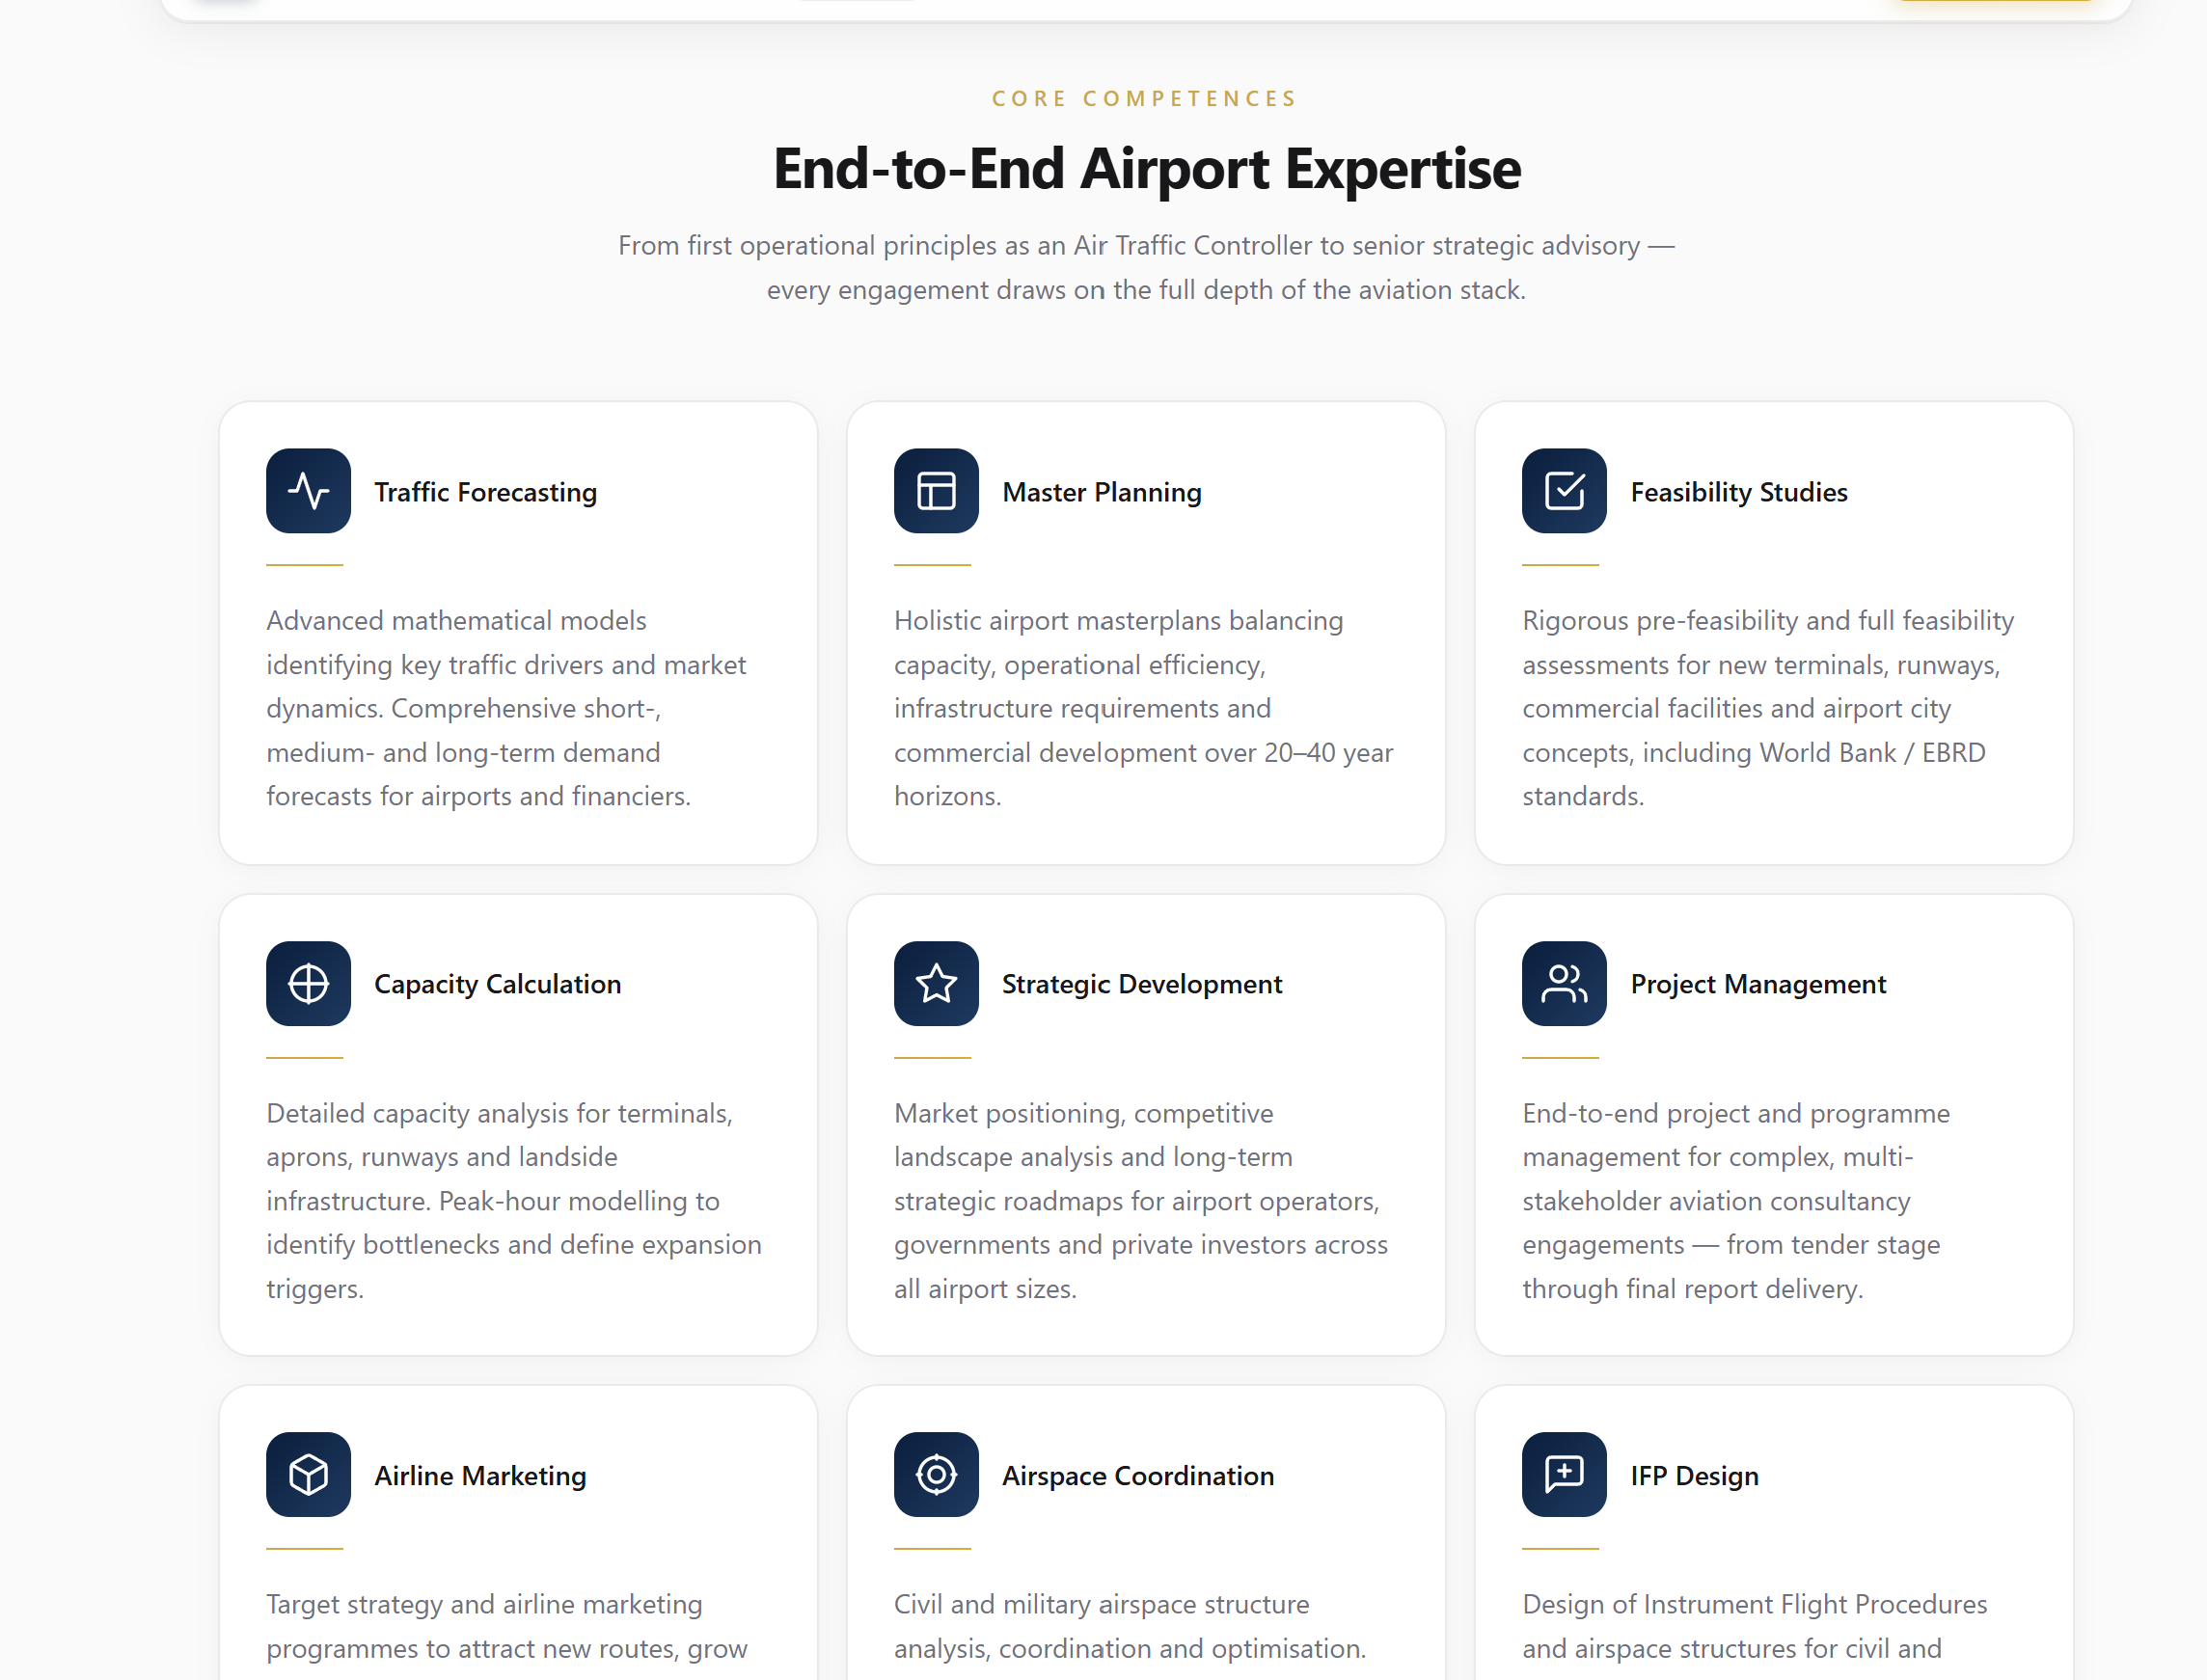
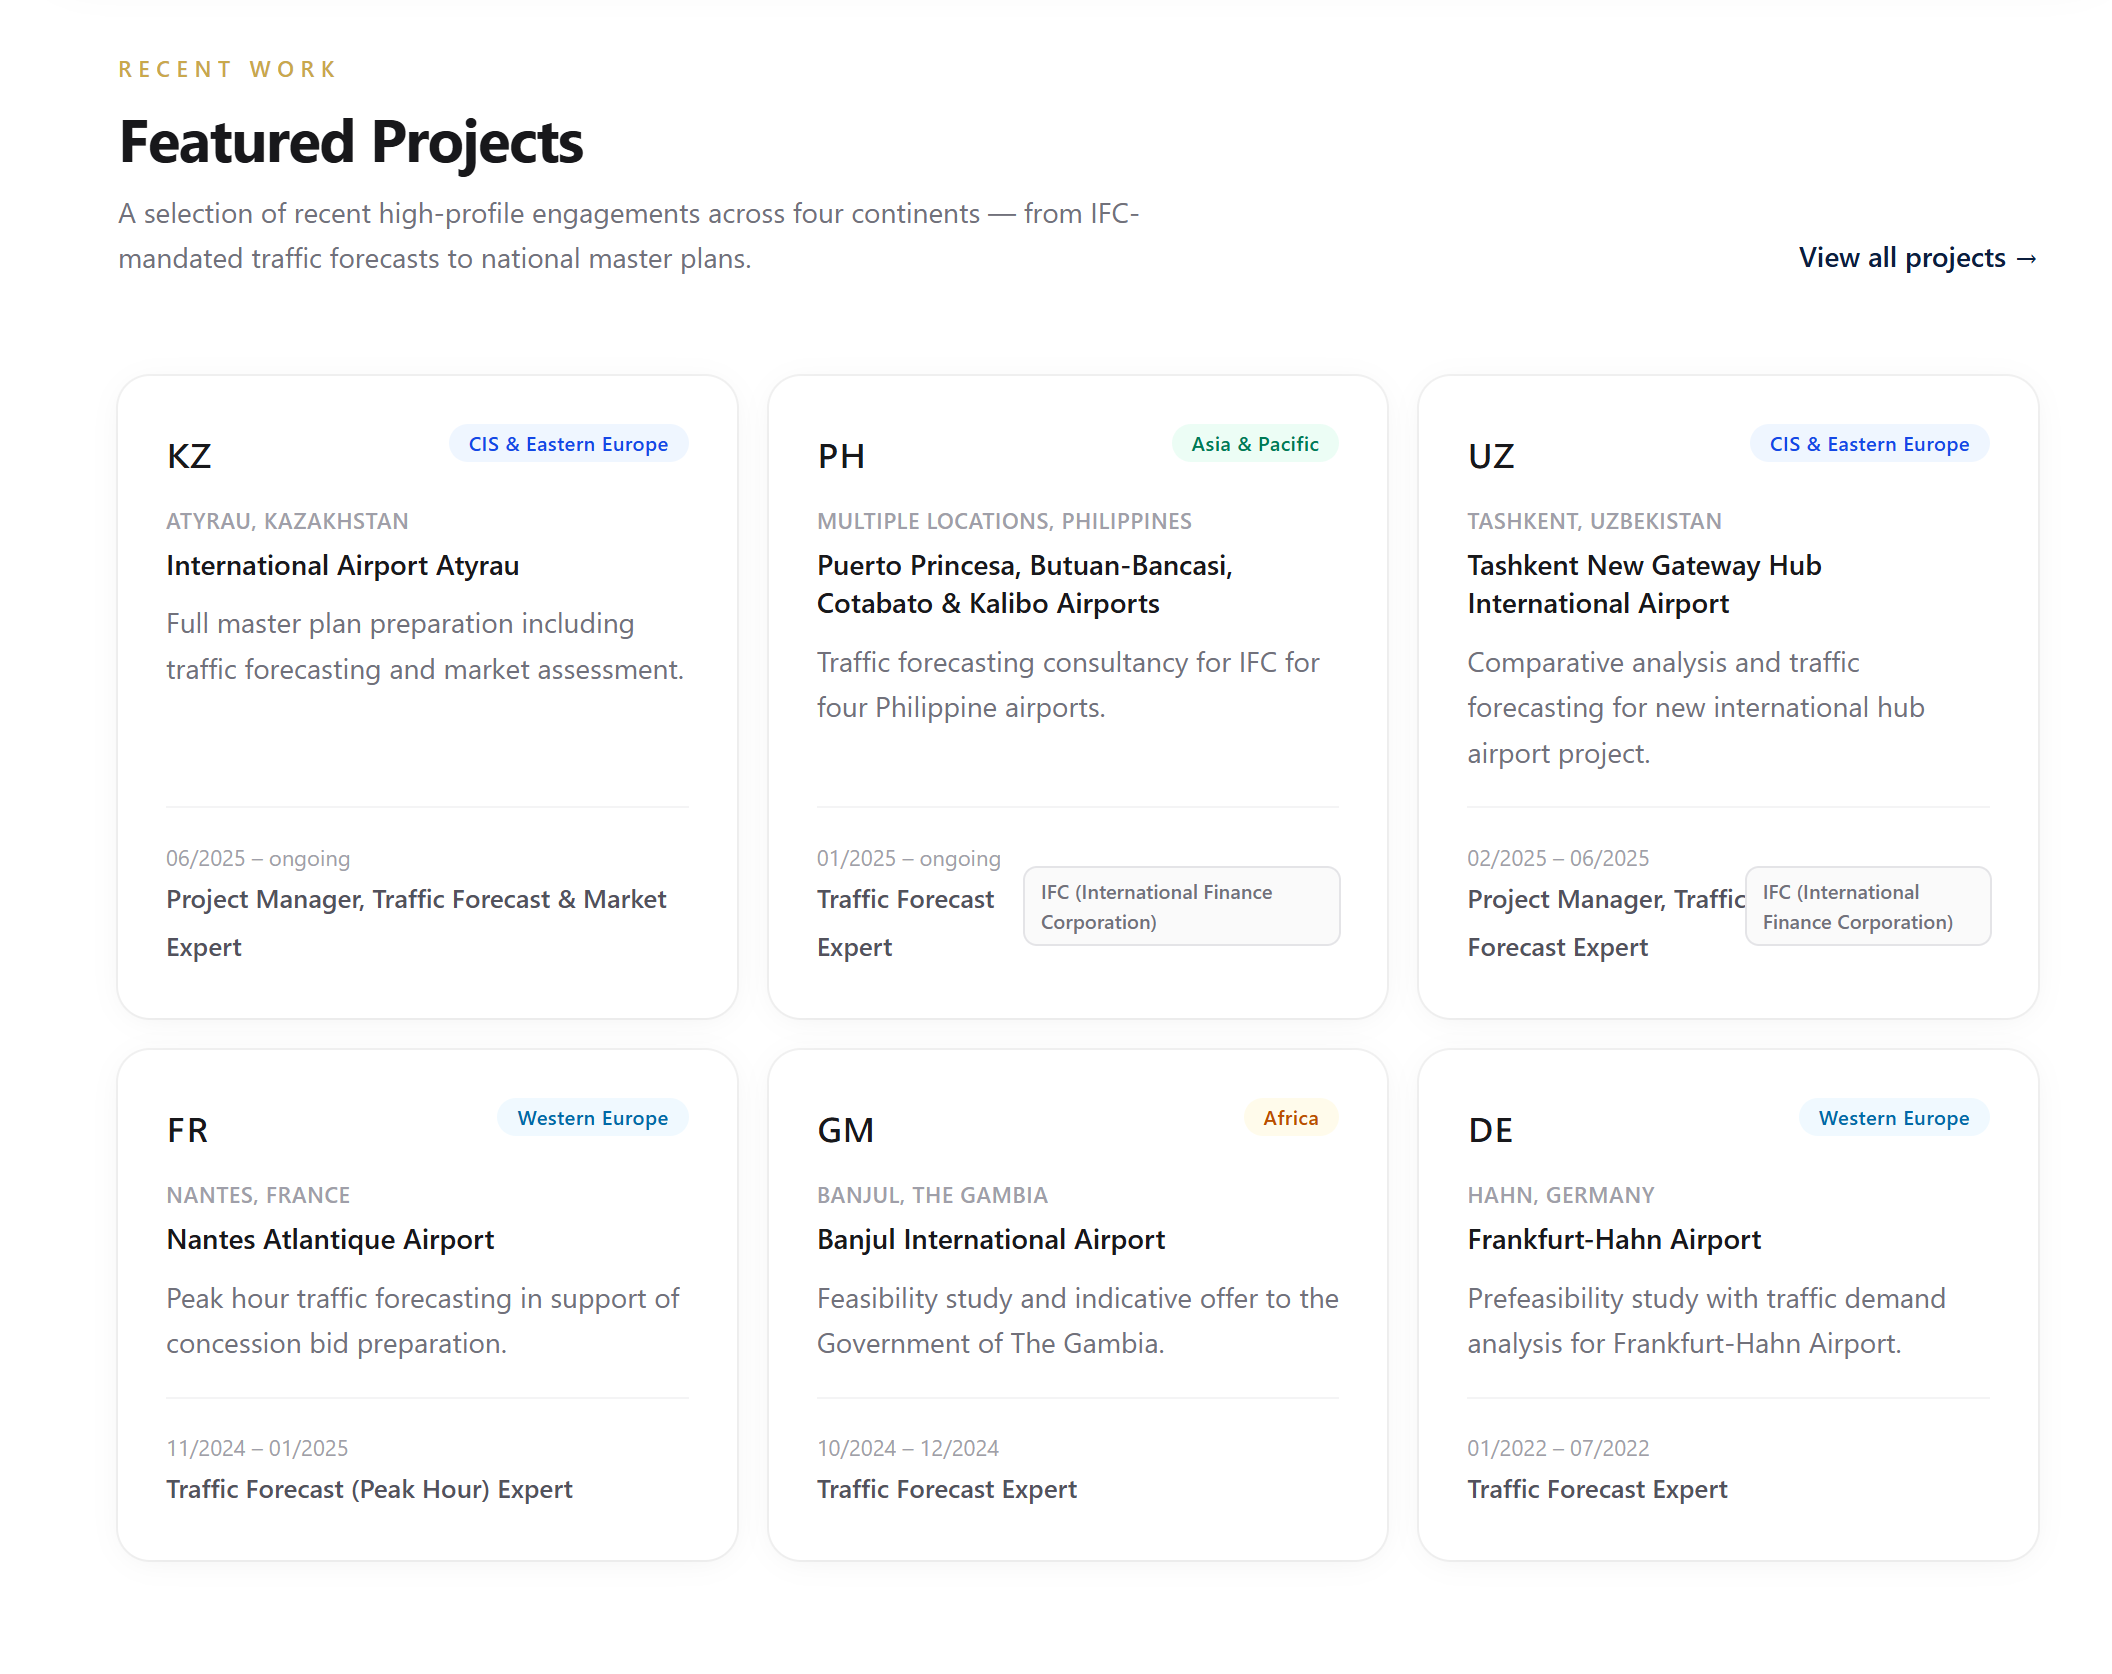
Refactor FeaturedProjects and ProjectCard components; removed unused region and country flag logic, updated layout for better responsiveness, and added a new footer CTA. Enhanced ProjectCard to conditionally display project scope or title based on props.

diff --git a/src/components/FeaturedProjects.tsx b/src/components/FeaturedProjects.tsx
@@ -1,110 +1,15 @@
 import Link from 'next/link'
 import { featuredProjects } from '@/lib/projects'
 import { ScrollReveal } from '@/components/ScrollReveal'
+import { ProjectCard } from '@/components/ProjectCard'
 
-// ─── Region colour map ────────────────────────────────────────────────────────
-
-const REGION_STYLES: Record<string, { bg: string; text: string }> = {
-  'CIS & Eastern Europe': { bg: 'bg-blue-50', text: 'text-blue-700' },
-  'Western Europe':       { bg: 'bg-sky-50',  text: 'text-sky-700' },
-  'Africa':               { bg: 'bg-amber-50', text: 'text-amber-700' },
-  'Asia & Pacific':       { bg: 'bg-emerald-50', text: 'text-emerald-700' },
-  'Middle East':          { bg: 'bg-orange-50', text: 'text-orange-700' },
-  'Americas':             { bg: 'bg-purple-50', text: 'text-purple-700' },
-}
-
-// ─── Country flags (emoji) ────────────────────────────────────────────────────
-
-const COUNTRY_FLAGS: Record<string, string> = {
-  Kazakhstan: '🇰🇿',
-  Philippines: '🇵🇭',
-  Uzbekistan: '🇺🇿',
-  France: '🇫🇷',
-  'The Gambia': '🇬🇲',
-  Germany: '🇩🇪',
-  Ukraine: '🇺🇦',
-  Russia: '🇷🇺',
-  Georgia: '🇬🇪',
-  Bulgaria: '🇧🇬',
-  Estonia: '🇪🇪',
-  Brazil: '🇧🇷',
-  Oman: '🇴🇲',
-  Nigeria: '🇳🇬',
-  'South Africa': '🇿🇦',
-  Montenegro: '🇲🇪',
-  Croatia: '🇭🇷',
-  Hungary: '🇭🇺',
-  Mexico: '🇲🇽',
-  Tajikistan: '🇹🇯',
-  Moldova: '🇲🇩',
-  Romania: '🇷🇴',
-}
-
-// ─── Single project card ──────────────────────────────────────────────────────
-
-function ProjectCard({
-  project,
-  index,
-}: {
-  project: (typeof featuredProjects)[number]
-  index: number
-}) {
-  const regionStyle = REGION_STYLES[project.region] ?? { bg: 'bg-zinc-50', text: 'text-zinc-600' }
-  const flag = COUNTRY_FLAGS[project.country] ?? '🌍'
-  const delay = `${index * 0.1}s`
-
-  return (
-    <ScrollReveal
-      delay={delay}
-      className="group flex flex-col gap-4 rounded-2xl bg-white p-6 shadow-[0_2px_16px_-4px_rgba(0,0,0,0.07)] ring-1 ring-zinc-900/5 transition-all duration-300 hover:-translate-y-1 hover:shadow-[0_12px_40px_-8px_rgba(11,30,61,0.14)]"
-    >
-      {/* Header row */}
-      <div className="flex items-start justify-between gap-3">
-        <span className="text-2xl leading-none" role="img" aria-label={project.country}>
-          {flag}
-        </span>
-        <span
-          className={`inline-flex items-center rounded-full px-2.5 py-0.5 text-[10px] font-medium tracking-wide ${regionStyle.bg} ${regionStyle.text}`}
-        >
-          {project.region}
-        </span>
-      </div>
-
-      {/* Project info */}
-      <div className="flex-1">
-        <p className="text-[11px] font-semibold tracking-wide text-zinc-400 uppercase">
-          {project.location}, {project.country}
-        </p>
-        <h3 className="mt-1 text-sm font-semibold leading-snug text-zinc-900">
-          {project.airport}
-        </h3>
-        <p className="mt-2 text-sm leading-relaxed text-zinc-500">
-          {project.scope}
-        </p>
-      </div>
-
-      {/* Footer */}
-      <div className="flex items-center justify-between border-t border-zinc-100 pt-4">
-        <div>
-          <p className="text-[11px] text-zinc-400">{project.period}</p>
-          <p className="text-xs font-medium text-zinc-600">{project.role}</p>
-        </div>
-        {project.client && (
-          <span className="rounded-md bg-zinc-50 px-2 py-1 text-[10px] font-medium text-zinc-500 ring-1 ring-zinc-200">
-            {project.client}
-          </span>
-        )}
-      </div>
-    </ScrollReveal>
-  )
-}
-
-// ─── Section ─────────────────────────────────────────────────────────────────
+// ─── Featured Projects section — homepage ─────────────────────────────────────
 
 export function FeaturedProjects() {
   return (
-    <section className="mx-auto max-w-5xl px-4 py-20 sm:px-8 sm:py-24">
-      {/* Heading */}
+    <section className="mx-auto max-w-7xl px-4 py-20 sm:px-8 sm:py-24">
+
+      {/* ── Heading ── */}
       <ScrollReveal className="mb-12 flex flex-col items-start gap-4 sm:flex-row sm:items-end sm:justify-between">
         <div>
           <p
@@ -130,12 +35,27 @@ export function FeaturedProjects() {
         </Link>
       </ScrollReveal>
 
-      {/* Grid */}
+      {/* ── Cards ── */}
       <div className="grid grid-cols-1 gap-4 sm:grid-cols-2 lg:grid-cols-3">
         {featuredProjects.map((project, i) => (
-          <ProjectCard key={project.id} project={project} index={i} />
+          <ScrollReveal key={project.id} delay={`${i * 0.09}s`}>
+            <ProjectCard project={project} showScope />
+          </ScrollReveal>
         ))}
       </div>
+
+      {/* ── Footer CTA ── */}
+      <ScrollReveal className="mt-10 text-center">
+        <Link
+          href="/projects"
+          className="inline-flex items-center gap-2 rounded-xl border border-zinc-200 bg-white px-6 py-3 text-sm font-semibold text-zinc-700 shadow-sm transition-all duration-200 hover:border-zinc-300 hover:shadow-md"
+        >
+          View all {featuredProjects.length > 0 ? '60+' : ''} projects
+          <svg viewBox="0 0 20 20" fill="currentColor" className="h-4 w-4 text-zinc-400">
+            <path fillRule="evenodd" d="M3 10a.75.75 0 0 1 .75-.75h10.638L10.23 5.29a.75.75 0 1 1 1.04-1.08l5.5 5.25a.75.75 0 0 1 0 1.08l-5.5 5.25a.75.75 0 1 1-1.04-1.08l4.158-3.96H3.75A.75.75 0 0 1 3 10Z" clipRule="evenodd"/>
+          </svg>
+        </Link>
+      </ScrollReveal>
     </section>
   )
 }

diff --git a/src/app/icon.tsx b/src/app/icon.tsx
@@ -1,0 +1,35 @@
+import { ImageResponse } from 'next/og'
+
+// ─── App icon — generated at build time via next/og ──────────────────────────
+// Renders the RAC initials badge in brand colours:
+//   Deep Navy background · "R" white · "A" gold · "C" white
+
+export const size        = { width: 32, height: 32 }
+export const contentType = 'image/png'
+
+export default function Icon() {
+  return new ImageResponse(
+    (
+      <div
+        style={{
+          width: '100%',
+          height: '100%',
+          display: 'flex',
+          alignItems: 'center',
+          justifyContent: 'center',
+          background: 'linear-gradient(135deg, #0B1E3D 0%, #1E3A5F 100%)',
+          borderRadius: '7px',
+          fontFamily: 'sans-serif',
+          fontSize: '13px',
+          fontWeight: 900,
+          letterSpacing: '-0.5px',
+        }}
+      >
+        <span style={{ color: '#ffffff' }}>R</span>
+        <span style={{ color: '#C9A84C' }}>A</span>
+        <span style={{ color: '#ffffff' }}>C</span>
+      </div>
+    ),
+    { ...size },
+  )
+}

diff --git a/src/app/apple-icon.tsx b/src/app/apple-icon.tsx
@@ -1,0 +1,31 @@
+import { ImageResponse } from 'next/og'
+
+export const size        = { width: 180, height: 180 }
+export const contentType = 'image/png'
+
+export default function AppleIcon() {
+  return new ImageResponse(
+    (
+      <div
+        style={{
+          width: '100%',
+          height: '100%',
+          display: 'flex',
+          alignItems: 'center',
+          justifyContent: 'center',
+          background: 'linear-gradient(135deg, #0B1E3D 0%, #1E3A5F 100%)',
+          borderRadius: '38px',
+          fontFamily: 'sans-serif',
+          fontSize: '68px',
+          fontWeight: 900,
+          letterSpacing: '-2px',
+        }}
+      >
+        <span style={{ color: '#ffffff' }}>R</span>
+        <span style={{ color: '#C9A84C' }}>A</span>
+        <span style={{ color: '#ffffff' }}>C</span>
+      </div>
+    ),
+    { ...size },
+  )
+}

diff --git a/src/components/ProjectCard.tsx b/src/components/ProjectCard.tsx
@@ -27,7 +27,13 @@ function shortRole(role: string) {
 
 // ─── Card ─────────────────────────────────────────────────────────────────────
 
-export function ProjectCard({ project }: { project: Project }) {
+export function ProjectCard({
+  project,
+  showScope = false,
+}: {
+  project: Project
+  showScope?: boolean
+}) {
   const code = COUNTRY_CODE[project.country] ?? project.country.slice(0, 2).toUpperCase()
 
   return (
@@ -89,9 +95,15 @@ export function ProjectCard({ project }: { project: Project }) {
           <h3 className="text-sm font-bold leading-snug text-zinc-900">
             {project.airport}
           </h3>
-          <p className="mt-2 text-xs leading-relaxed text-zinc-500">
-            {project.title}
-          </p>
+          {showScope ? (
+            <p className="mt-2 text-sm leading-relaxed text-zinc-500">
+              {project.scope}
+            </p>
+          ) : (
+            <p className="mt-1.5 text-xs font-medium text-zinc-400">
+              {project.title}
+            </p>
+          )}
         </div>
 
         {/* Footer: period + role badges */}